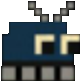
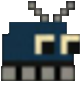
adding some images

diff --git a/game.html b/game.html
@@ -45,10 +45,16 @@
 					if (levitateAction === false) {
 						if (myGamePiece.y == (myGameArea.canvas.height - myGameArea.canvas.height * 0.06)) {
 							accelerate(-0.2);
+							console.log("in if: " + myGamePiece.type);
+							myGamePiece.type = "playerBooster";
 						}
+						console.log("out if: " + myGamePiece.type);
+						myGamePiece.type = "playerBooster";
 						click = true;
 					} else {
 						accelerate(-0.2);
+						console.log(myGamePiece.type);
+						myGamePiece.type = "playerBooster";
 						click = true;
 					}
 				}
@@ -64,6 +70,7 @@
 			touching[3] = touches2[0].pageY;
 			if (checkSecondTouch()) {
 				accelerate(0.1);
+				myGamePiece.type = "player";
 				click = false;
 			}
 			if (gamePlay == true) checkTouchLocation();
@@ -415,6 +422,8 @@
 		img.src = "images/obstaclenew.png";
 		var playerBoosterPic = new Image();
 		playerBoosterPic.src = "images/robotWithBooster.png"
+		var playerTransparentPic = new Image();
+		playerTransparentPic.src = "images/robotTransparent.png"
 		var playerPic = new Image();
 		playerPic.src = "images/robot.png";
 		var autoPic = new Image();
@@ -503,6 +512,8 @@
 					ctx.fillText(this.text, this.x, this.y);
 				} else if (this.type == "playerBooster") {
 					ctx.drawImage(playerBoosterPic, this.x, this.y, this.width, this.height);
+				}	else if (this.type == "playerTransparent") {
+					ctx.drawImage(playerTransparentPic, this.x, this.y, this.width, this.height);
 				}	else if (this.type == "player") {
 					// ctx.fillStyle = color;
 					// ctx.fillRect(this.x, this.y, this.width, this.height);
@@ -528,14 +539,13 @@
 					// console.log(this.gravity);
 					this.gravity = (0.4 - this.gravitySpeed);
 					this.type = "playerBooster";
-					this.height = myGameArea.canvas.height * 0.07;
 				} else if (this.gravitySpeed > 0 && click == false) {
 					this.gravity = 0.05;
 					this.type = "player";
-					this.height = myGameArea.canvas.height * 0.06;
+				} else if (click === true) {
+					this.type = "playerBooster";
 				} else {
 					this.type = "player";
-					this.height = myGameArea.canvas.height * 0.06;
 				}
 			}
 			this.endingAccel = function() {
@@ -671,7 +681,8 @@
 				if (myGamePiece.crashWith(myObstacles[i]) && autoRunning == false) {
 					var die_snd = new Audio("sounds/hero-death-00.wav"); // buffers automatically when created
 					die_snd.play();
-					setTimeout(location.reload(), 500);
+					
+					// setTimeout(location.reload(), 500);
 					// started = 0;
 					// mainMenu();
 					return;
@@ -781,6 +792,7 @@
 			if (autoRunning === true && ((myGameArea.section - myGameArea.autoSection) == 10)) {
 				endAutoRun();
 			} else if (autoRunning === true) {
+				// myGamePiece.type = "playerTransparent";
 				// console.log("yea");
 				//  + (((myGameArea.section - myGameArea.autoSection) - 10) * -1)
 				autoText.text = "AUTO TIME: " + (((myGameArea.section - myGameArea.autoSection) - 10) * -1);

diff --git a/gameOver.html b/gameOver.html
@@ -1,0 +1,67 @@
+<!DOCTYPE html>
+<html>
+
+<head>
+  <meta name="viewport" content="width=device-width, initial-scale=1.0, user-scalable=no">
+  <link rel="stylesheet" type="text/css" href="style.css">
+</head>
+
+<body onload="init()" id="script">
+  <canvas id='c' style='position: absolute; left: 0px; top: 0px; z-index: 2;'></canvas>
+  <script>
+    var backgroundImage = new Image();
+    var ctx;
+    var buttons = [];
+
+    function draw() {
+      var canvasWidth = window.innerWidth;
+      var canvasHeight = window.innerHeight;
+      ctx.drawImage(backgroundImage, 0, 0, canvasWidth, canvasHeight);
+    }
+
+    function loadBackgroundImage() {
+      var canvas = document.getElementById("c");
+      canvas.width = window.innerWidth;
+      canvas.height = window.innerHeight;
+      ctx = canvas.getContext("2d");
+      console.log("loading store background");
+      backgroundImage.src = "images/help.png";
+      backgroundImage.onload = function() {
+        draw();
+      }
+    }
+
+    function backToMainMenu(){
+      window.location = "game.html";
+    }
+
+    function addButton(x1,y1,x2,y2,callback){
+      buttons.push({x1:x1,y1:y1,x2:x2,y2:y2,callback:callback});
+    }
+
+    function setButtons() {
+      var canvasWidth = window.innerWidth;
+      var canvasHeight = window.innerHeight;
+      addButton(132 / 1920 * canvasWidth, 110 / 1080 * canvasHeight, 413 / 1920 * canvasWidth, 193 / 1080 * canvasHeight, backToMainMenu);
+    }
+
+    function checkButtons(evt){
+			var x = evt.changedTouches[0].pageX;
+			var y = evt.changedTouches[0].pageY;
+      for(var i=0;i<buttons.length;i++){
+        var b = buttons[i];
+        if(x>b.x1 && x<b.x2 && y>b.y1 && y<b.y2){
+          b.callback();
+        }
+      }
+    }
+
+    function init() {
+      loadBackgroundImage();
+      setButtons();
+      window.addEventListener('touchstart', checkButtons);
+    }
+  </script>
+</body>
+
+</html>
